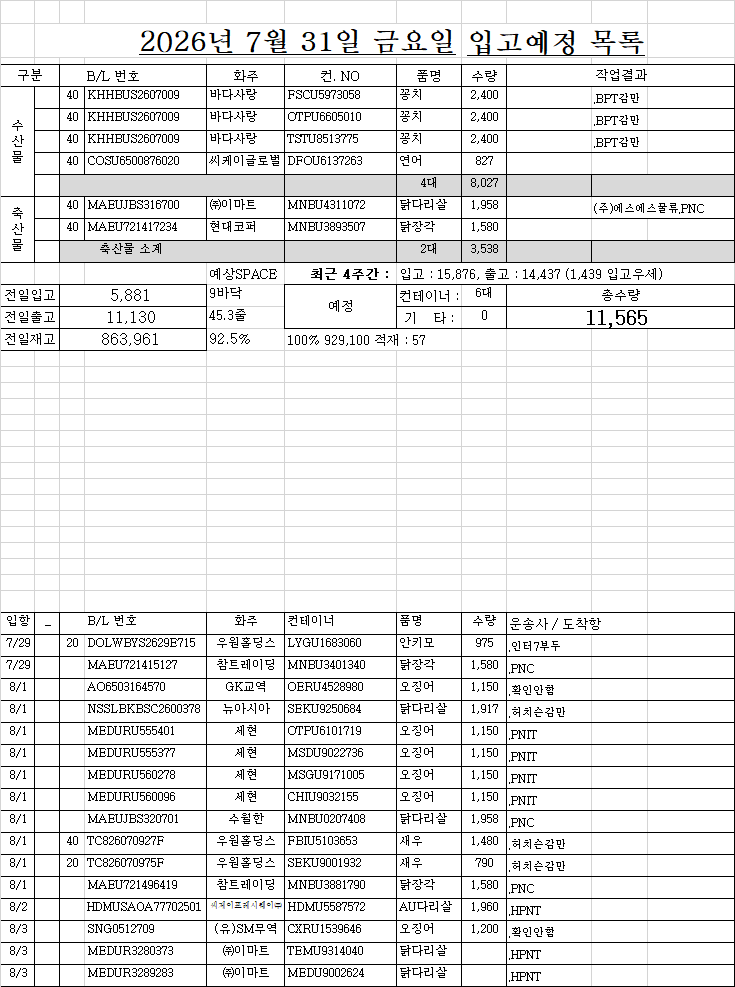
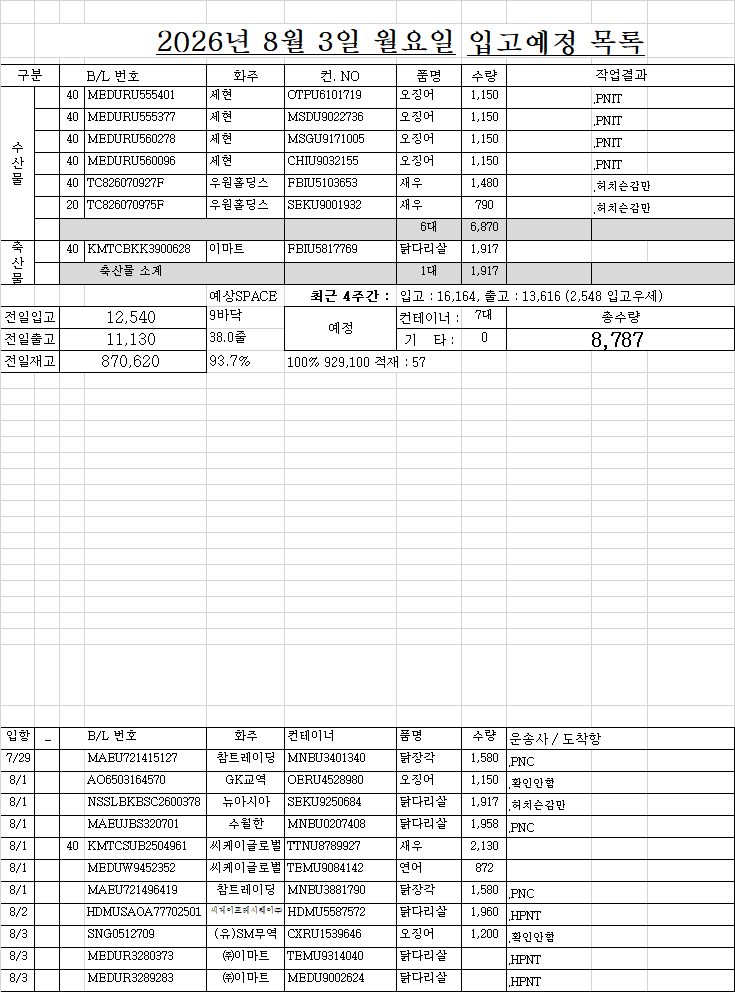
0731

diff --git a/list.html b/list.html
@@ -171,49 +171,45 @@
 <!-- ★★★★★★ 따로 빼 놔야한다. 복붙하면 첫칸 비어도 되는데, 여기서는 첫칸비우면 당겨진다. -->
 <!-- ★ 엑셀범위를 브라우저 textarea에 붙여넣으면 첫셀 비어도 제대로 되는데... HTML에 붙여놓은 자료는 처음셀이 비어있으면 당겨짐 -->
 <div class="d-none" id="원본text_리스트1부터w요약열까지">작성	면허	B/LNO.	화주	컨테이너NO.	품명	수량	반입NO.	입항일	구분	도착일	도착시간	구분	운도VBA	04/27 월 07:21	화찰BL	화찰 선명	화물관리번호	화찰수량	화찰중량	화찰입항	리스트시트기준열	
-1	○	KHHBUS2607009	바다사랑	FSCU5973058	꽁치	2,400 		7/29	1				.BPT감만	(주)에스에스물류, CY : 신선대감만터미널(주) 감만CY, 컨진행 : 반입완료, 선사 : 덕상티에스라인스(주), 포딩 : (주)가나해운	KHHBUS2607009	TS QINGDAO	26TSLUB094I-1043-0001	7,200 	73,360.00 	2026.07.29	07/30 목 16:20	
-1	○	KHHBUS2607009	바다사랑	OTPU6605010	꽁치	2,400 		7/29	1				.BPT감만	(주)에스에스물류, CY : 신선대감만터미널(주) 감만CY, 컨진행 : 반입완료, 선사 : 덕상티에스라인스(주), 포딩 : (주)가나해운	KHHBUS2607009	TS QINGDAO	26TSLUB094I-1043-0001	7,200 	73,360.00 	2026.07.29	조회정보	
-1	○	KHHBUS2607009	바다사랑	TSTU8513775	꽁치	2,400 		7/29	1				.BPT감만	(주)에스에스물류, CY : 신선대감만터미널(주) 감만CY, 컨진행 : 반입완료, 선사 : 덕상티에스라인스(주), 포딩 : (주)가나해운	KHHBUS2607009	TS QINGDAO	26TSLUB094I-1043-0001	7,200 	73,360.00 	2026.07.29	적재	57
-1	○	COSU6500876020	씨케이글로벌	DFOU6137263	연어	827 		7/29	1	7/30	11:31			면허?, CY : 한국허치슨터미널(주), 컨진행 : 입항적재화물목록 운항정보 정정, 선사 : 코스코쉬핑한국(주)	COSU6500876020	SONG YUN HE	26COHES023I-9054-	827 	24,750.00 	2026.07.29	4,617 	3줄
-1		MAEUJBS316700	㈜이마트	MNBU4311072	닭다리살	1,958 		7/29	2				(주)에스에스물류.PNC	면허?, CY : 부산신항만(주)자유무역지역, 컨진행 : 반입완료, 선사 : 하파그로이드코리아(주)	MAEUJBS316700	NAVIOS UNISON	26HLCU9707I-1239-	1,958 	24,450.69 	2026.07.29	6,156 	4줄
-1	○	MAEU721417234	현대코퍼	MNBU3893507	닭장각	1,580 		7/29	2					(주)에이치유로지스틱스, CY : 부산신항만(주)자유무역지역, 컨진행 : 보세운송 신고 수리, 선사 : 하파그로이드코리아(주)	MAEU721417234	NAVIOS UNISON	26HLCU9707I-1347-	1,580 	24,387.30 	2026.07.29	7,695 	5줄
-		DOLWBYS2629E715	우원홀딩스	LYGU1683060	안키모	975 		7/29	1			20	.인터7부두	면허?, CY : 인터지스(주)7부두 컨테이너보세창고, 컨진행 : 반입완료, 선사 : 두우해운(주)	DOLWBYS2629E715	YONG SHENG 158	26DWICB629I-0245-	975 	7,000.00 	2026.07.29	9,234 	6줄
+1		MEDURU555401	세현	OTPU6101719	오징어	1,150 		8/1	1				.PNIT								07/31 금 12:11	
+1		MEDURU555377	세현	MSDU9022736	오징어	1,150 		8/1	1				.PNIT								조회정보	
+1		MEDURU560278	세현	MSGU9171005	오징어	1,150 		8/1	1				.PNIT								적재	57
+1		MEDURU560096	세현	CHIU9032155	오징어	1,150 		8/1	1				.PNIT								4,617 	3줄
+1	○	TC826070927F	우원홀딩스	FBIU5103653	새우	1,480 		8/1	1			40	.허치슨감만		TC826070927F	KMTC SURABAYA	26KMTC2597I-2037-0001	1,480 	16,576.00 	2026.08.01	6,156 	4줄
+1	○	TC826070975F	우원홀딩스	SEKU9001932	새우	790 		8/1	1			20	.허치슨감만	(주)에스에스물류, CY : 한국허치슨터미널(주), 컨진행 : 보세운송 신고 수리, 선사 : 고려해운(주), 포딩 : 주식회사 엠앤씨엘	TC826070975F	KMTC SURABAYA	26KMTC2597I-2036-0001	790 	9,085.00 	2026.08.01	7,695 	5줄
+1	○	KMTCBKK3900628	이마트	FBIU5817769	닭다리살	1,917 		7/30	2					(주)에스에스물류, CY : 한국허치슨터미널(주), 컨진행 : 보세운송 신고 수리, 선사 : 고려해운(주)	KMTCBKK3900628	KMTC BANGKOK	26KMTC2581I-0224-	1,917 	24,821.32 	2026.07.30	9,234 	6줄
 		MAEU721415127	참트레이딩	MNBU3401340	닭장각	1,580 		7/29	2				.PNC								구분	대수
 		AO6503164570	GK교역	OERU4528980	오징어	1,150 		8/1	1				.확인안함								출고입고	4주간
 		NSSLBKBSC2600378	뉴아시아	SEKU9250684	닭다리살	1,917 		8/1	2				.허치슨감만								1일 7/5	9바닥줄
-		MEDURU555401	세현	OTPU6101719	오징어	1,150 		8/1	1				.PNIT								14,437 	9.4
-		MEDURU555377	세현	MSDU9022736	오징어	1,150 		8/1	1				.PNIT								15,876 	10.3
-		MEDURU560278	세현	MSGU9171005	오징어	1,150 		8/1	1				.PNIT								내국제외	
-		MEDURU560096	세현	CHIU9032155	오징어	1,150 		8/1	1				.PNIT								구분	대수
-		MAEUJBS320701	수월한	MNBU0207408	닭다리살	1,958 		8/1	2				.PNC								수산	34 
-		TC826070927F	우원홀딩스	FBIU5103653	새우	1,480 		8/1	1			40	.허치슨감만								축산	40 
-		TC826070975F	우원홀딩스	SEKU9001932	새우	790 		8/1	1			20	.허치슨감만								합계	74 
-		MAEU721496419	참트레이딩	MNBU3881790	닭장각	1,580 		8/1	2				.PNC									
-		HDMUSAOA77702501	씨제이프레시웨이㈜	HDMU5587572	AU다리살	1,960 		8/2	2				.HPNT			HYUNDAI HONGKONG					화주	대수
-		SNG0512709	(유)SM무역	CXRU1539646	오징어	1,200 		8/3	1				.확인안함								경태.19대	19
-		MEDUR3280373	㈜이마트	TEMU9314040	닭다리살			8/3	2				.HPNT			MSC AURIGA					수월한	10
-		MEDUR3289283	㈜이마트	MEDU9002624	닭다리살			8/3	2				.HPNT			MSC AURIGA					참트레이딩	7
-		YMJAC949016871	세현	OTPU6466506	오징어	1,150 		8/5	1				.DGT								세현	6
-		MEDURU565103	세현	TRIU8104555	오징어	1,150 		8/6	1				.PNIT								㈜이마트	5
-		MEDUWE190873	수월한	SZLU9037575	닭발	1,566 		8/6	2				.확인안함								수월한 주식회사	4
-		COSU650049282	씨제이프레시웨이㈜	OERU4011379	닭다리살	1,960 		8/6	2				.BNCT								우원홀딩스	3
-		MAEUJBS317232	㈜이마트	MNBU4636170	닭다리살			8/6	2				.PNC			SKAGEN MAERSK					씨제이프레시웨이㈜	3
-		COSU6500880930	포쉐프	SZLU9222362	베이컨	1,918 		8/6	2				.BNCT								바다사랑	3
-		MAEUJBS318853	수월한 주식회사	MNBU4474716	SR다리살	1,958 		8/7	2				.PNC			MAERSK VARNA					현대코퍼	3
-		COSU6502721570	경태.19대	OERU4017166	오징어	1,210 		8/8	1				.BNCT								주식회사 뉴아시아 (수월한)	2
-		COSU6502721570	경태.19대	SEGU9970000	오징어	1,210 		8/8	1				.BNCT								(유)SM무역	1
-		COSU6502721570	경태.19대	OERU4306180	오징어	1,210 		8/8	1				.BNCT								포쉐프	1
-		COSU6502721570	경태.19대	SEGU9693820	오징어	1,210 		8/8	1				.BNCT								씨케이글로벌	1
-		COSU6502721570	경태.19대	FBIU5579845	오징어	1,210 		8/8	1				.BNCT								GK교역	1
-		COSU6502721570	경태.19대	OERU4067969	오징어	1,210 		8/8	1				.BNCT								대상 주식회사	1
-		COSU6502721570	경태.19대	DFOU6135743	오징어	943 		8/8	1				.BNCT								아스트로스	1
-		COSU6502721570	경태.19대	OTPU6007256	오징어	1,210 		8/8	1				.BNCT								뉴아시아	1
-		COSU6502721570	경태.19대	OERU4288213	오징어	1,210 		8/8	1				.BNCT								대성무역	1
-		COSU6502721570	경태.19대	OERU4369336	오징어	1,210 		8/8	1				.BNCT								주식회사 아스트로스	1
-		COSU6502721570	경태.19대	FBIU5348337	오징어	1,210 		8/8	1				.BNCT									
-		COSU6502721570	경태.19대	OERU4240668	오징어	1,210 		8/8	1				.BNCT									
-		COSU6502721570	경태.19대	SZLU9660292	오징어	1,210 		8/8	1				.BNCT									
-		COSU6502721570	경태.19대	FBIU5005512	오징어	1,210 		8/8	1				.BNCT									
+		MAEUJBS320701	수월한	MNBU0207408	닭다리살	1,958 		8/1	2				.PNC								13,934 	9.1
+		KMTCSUB2504961	씨케이글로벌	TTNU8789927	새우	2,130 		8/1	1			40		면허?, CY : 한국허치슨터미널(주), 컨진행 : 입항적재화물목록 제출, 선사 : 흥아라인 주식회사	KMTCSUB2504961	TIANJIN VOYAGER	26HASL1027I-0194-	2,130 	12,268.80 	2026.08.01	15,833 	10.3
+		MEDUW9452352	씨케이글로벌	TEMU9084142	연어	872 		8/1	1					면허?, CY : 부산신항국제터미널(주), 컨진행 : 하선신고 수리완료, 선사 : 오션네트워크익스프레스코리아(주)	MEDUW9452352	ONE SPLENDOUR	26ONEY1181I-0003-	872 	24,458.50 	2026.08.01	내국제외	
+		MAEU721496419	참트레이딩	MNBU3881790	닭장각	1,580 		8/1	2				.PNC								구분	대수
+		HDMUSAOA77702501	씨제이프레시웨이㈜	HDMU5587572	닭다리살	1,960 		8/2	2				.HPNT			HYUNDAI HONGKONG					수산	32 
+		SNG0512709	(유)SM무역	CXRU1539646	오징어	1,200 		8/3	1				.확인안함								축산	42 
+		MEDUR3280373	㈜이마트	TEMU9314040	닭다리살			8/3	2				.HPNT			MSC AURIGA					합계	74 
+		MEDUR3289283	㈜이마트	MEDU9002624	닭다리살			8/3	2				.HPNT			MSC AURIGA						
+		YMJAC949016871	세현	OTPU6466506	오징어	1,150 		8/5	1				.DGT								화주	대수
+		MEDURU565103	세현	TRIU8104555	오징어	1,150 		8/6	1				.PNIT								경태.19대	19
+		MEDUWE190873	수월한	SZLU9037575	닭발	1,566 		8/6	2				.확인안함								수월한	10
+		COSU650049282	씨제이프레시웨이㈜	OERU4011379	닭다리살	1,960 		8/6	2				.BNCT								참트레이딩	8
+		MAEUJBS317232	㈜이마트	MNBU4636170	닭다리살			8/6	2				.PNC			SKAGEN MAERSK					세현	6
+		COSU6500880930	포쉐프	SZLU9222362	베이컨	1,918 		8/6	2				.BNCT								수월한 주식회사	4
+		MAEUJBS318853	수월한 주식회사	MNBU4474716	SR다리살	1,958 		8/7	2				.PNC			MAERSK VARNA					㈜이마트	4
+		COSU6502721570	경태.19대	OERU4017166	오징어	1,210 		8/8	1				.BNCT								뉴아시아	3
+		COSU6502721570	경태.19대	SEGU9970000	오징어	1,210 		8/8	1				.BNCT								우원홀딩스	3
+		COSU6502721570	경태.19대	OERU4306180	오징어	1,210 		8/8	1				.BNCT								씨제이프레시웨이㈜	3
+		COSU6502721570	경태.19대	SEGU9693820	오징어	1,210 		8/8	1				.BNCT								씨케이글로벌	2
+		COSU6502721570	경태.19대	FBIU5579845	오징어	1,210 		8/8	1				.BNCT								현대코퍼	2
+		COSU6502721570	경태.19대	OERU4067969	오징어	1,210 		8/8	1				.BNCT								주식회사 뉴아시아 (수월한)	2
+		COSU6502721570	경태.19대	DFOU6135743	오징어	943 		8/8	1				.BNCT								GK교역	1
+		COSU6502721570	경태.19대	OTPU6007256	오징어	1,210 		8/8	1				.BNCT								(유)SM무역	1
+		COSU6502721570	경태.19대	OERU4288213	오징어	1,210 		8/8	1				.BNCT								대상 주식회사	1
+		COSU6502721570	경태.19대	OERU4369336	오징어	1,210 		8/8	1				.BNCT								이마트	1
+		COSU6502721570	경태.19대	FBIU5348337	오징어	1,210 		8/8	1				.BNCT								아스트로스	1
+		COSU6502721570	경태.19대	OERU4240668	오징어	1,210 		8/8	1				.BNCT								포쉐프	1
+		COSU6502721570	경태.19대	SZLU9660292	오징어	1,210 		8/8	1				.BNCT								대성무역	1
+		COSU6502721570	경태.19대	FBIU5005512	오징어	1,210 		8/8	1				.BNCT								주식회사 아스트로스	1
 		COSU6502721570	경태.19대	TEMU9308392	오징어	1,210 		8/8	1				.BNCT									
 		COSU6502721570	경태.19대	TEMU9322873	오징어	1,210 		8/8	1				.BNCT									
 		COSU6502721570	경태.19대	SEGU9972086	오징어	1,210 		8/8	1				.BNCT									
@@ -221,6 +217,7 @@
 		COSU6502721570	경태.19대	SZLU9390833	오징어	1,210 		8/8	1				.BNCT									
 		HLCUPN4260375116	대상 주식회사	HLBU9527960	닭발	1,567 		8/8	2				.PNIT									
 		MEDUHI870856	수월한	TTNU8200425	닭다리살	1,958 		8/8	2				.확인안함									
+		TC826071238F	우원홀딩스	WHLU7429430	새우	1,306 		8/8	1			20										
 		MAEUJBS318135	㈜이마트	MNBU3940194	닭다리살			8/8	2				.PNC			MAERSK SALTORO						
 		MAEU721496408	참트레이딩	MNBU4300951	닭장각	1,580 		8/8	2				.PNC									
 		MAEU721496410	참트레이딩	MNBU0457330	닭장각	1,580 		8/8	2				.PNC									
@@ -245,7 +242,9 @@
 		COSU6506972700	주식회사 아스트로스	OERU4170025	VI다리살	1,875 		9/10	2				.확인안함			OOCL FRANCE						
 		MAEUJBS322521	수월한 주식회사	MNBU3402959	SR조각정육25/30G	1,941 		9/12	2				.확인안함			확인안함						
 		ONEYSAOG31882301	씨제이프레시웨이㈜	CXRU1350523	AU다리살	1,960 		미정	2				.확인안함			ONE HANOI 						
-		KMTCSUB2504961	씨케이글로벌	TTNU8789927	새우	2,130 		8/2	1			40										
+		DJSCBKK260001627	뉴아시아	SEKU9303871	닭날개	1,950 			2													
+		KMTCLCH5714614	뉴아시아	FBIU5377443	닭다리살	1,925 			2													
+		ONEYBKKGP0840900	참트레이딩	ONEU9012020	닭발	1,794 			2													
 </div>
 <div class="d-none" id="원본text_입항관리도크부터도착항우측까지">도크	화주	컨테이너	작업순서	상세내용 참조		운송사	물품		06/05 목 16:15	B/L	도착항	상세내용
 </div>   

diff --git a/index.html b/index.html
@@ -156,6 +156,7 @@
         <h6 title="_03_세관_01_유니패스업무_01_이상보고" >반입물품 이상보고 (첨부서류 사후제출)</h6>
         <h6 title="_03_세관_02_반입정정" >보세화물 반입 정정 승인 신청</h6>
         <h6 title="_03_세관_02_반출정정" >보세화물 반출 정정 승인 신청</h6>
+        <h6 title="_03_세관_02_반출정정미래소프트" >보세화물 반출 정정 미래소프트</h6>
       </div>
     </div>
     <div class="개별카테고리" id="미래소프트"><!--id가 따지는데 _이후를 따옴. _ 없으면 전체 따옴 -->
@@ -2081,6 +2082,14 @@
       <h5 class="h5_번들작">※ 창고쪽 : 사유서</h5>
       <h5 class="h5_번들작">※ 화주(관세사)쪽 : 수입신고 정정승인서, 정정승인신청시 세관에 제출된 화주의 사유서</h5>
       <br><br><br><br>
+    </section>
+
+    <section id="_03_세관_02_반출정정미래소프트" ><div id="스크립트로ul추가"></div>
+      <h4 id="move1" class="목차">▢ (반출정정, 반출 정정)세관정보 처리완료후 미래소프트 프로그램에서 재고 맞추는 방법 (개념 및 설정)</h4>
+      <h5>1. 반출등록 후 송수신 이루어진 후 재고 반영(오류통보 받은것 포함)에서 <u>"반출등록시부터 재고반영으로 설정 변경"</u></h5>
+      <h5 class="h5_번들작">기준정보 - 코드관리 - 옵션설정 - 전송후에 재고에 반영 N → Y 로 변경</h5>
+      <h5>2. 보세화물 재고내역에서 "반출예정임의등록" → 반출승인 내역에 생성됨 → 반출승인 내역에서 등록만하고 송수신은 하지 않는다 </h5>
+      <h5 class="h5_번들작">→ 해당 내역을 송수신 하지 않도록 주의! (프로그램 재고에는 반영이 된다)</h5>
     </section>
 
     <section id="_04_세관_01_운영상황의보고"><div id="스크립트로ul추가"></div>

diff --git a/portal/assets/css/ycy낱개.css b/portal/assets/css/ycy낱개.css
@@ -33,8 +33,10 @@ body > div:not(#머리글) {display:inline-block}
 /* 간격관련 코딩 추가 */
 .간격정보 > button{font-family : monospace;font-size:12px;}
 .간격정보 > button:hover {width:1000px;}
-.이전1 > button, .이전2 > button, .이전3 > button, .이전4 > button, .이전5 > button
+.이전2 > button, .이전3 > button, .이전4 > button, .이전5 > button
 {background-color: aqua;} 
+.이전1 > button
+{background-color:burlywood;} 
 
 #칸_간격과삼이일_위 > div, #칸_간격과삼이일_아래 > div, #칸_삼십회_위 > div, #칸_삼십회_아래 > div,
 #칸_이월이웃수_위 > div, #칸_이월수_아래 > div, #칸_이웃수_아래 > div, #칸_이월이웃수_위_번호대 > div {height:22px;}

diff --git a/portal/assets/js/ycy낱개.js b/portal/assets/js/ycy낱개.js
@@ -250,7 +250,7 @@ function 고정html_구조생성및_초기설정() {
       <div style="border:1px solid black;border-right:0px;">이전-4</div>
       <div style="border:1px solid black;border-right:0px;">이전-3</div>
       <div style="border:1px solid black;border-right:0px;">이전-2</div>
-      <div style="border:1px solid black;border-right:0px;">이전-1</div>
+      <div style="border:1px solid black;border-right:0px;">이전-1(출현시 간격)</div>
       <div style="border:1px solid black;border-right:0px;">누적출-5</div>
       <div style="border:1px solid black;border-right:0px;">누적출-4</div>
       <div style="border:1px solid black;border-right:0px;">누적출-3</div>
